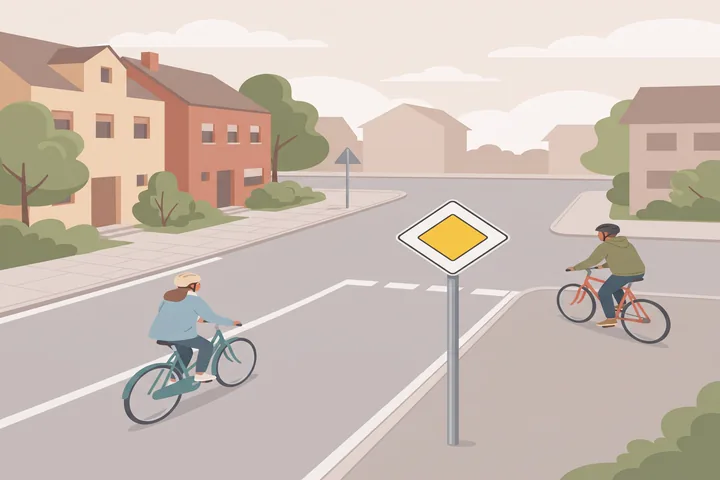
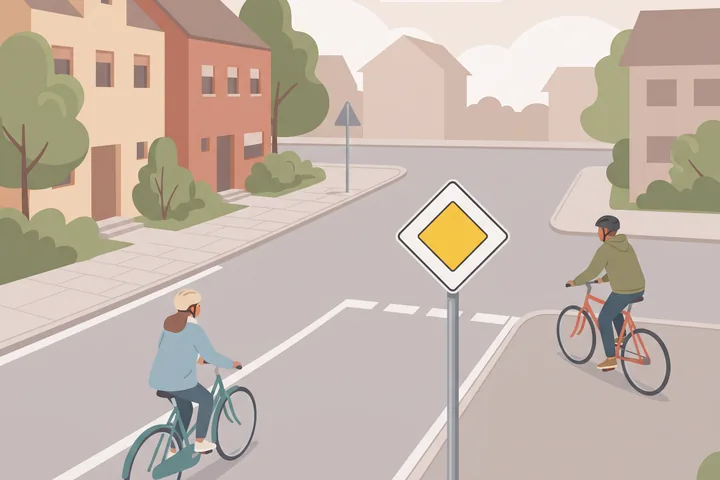
fix(verkehr): Zuschnitt-Verzerrung, Formular-Bug, Code-Dopplung, Inhaltspräzision
Behebt fünf Befunde aus der Gesamt-Review: Bilder wurden beim Verkleinern
gestreckt statt zugeschnitten, ein <form> ohne Absende-Knopf lud bei Enter
die Seite neu, die CRLF-Normalisierung war unnötig dupliziert statt die
bereits exportierte Funktion aus parser.js zu nutzen, zwei Regelsätze waren
sprachlich absoluter als die tatsächliche Rechtslage, und nichts prüfte die
ganze Kette parse->validate->render in einem Zug.

diff --git a/scripts/verkehr-parser.js b/scripts/verkehr-parser.js
@@ -4,13 +4,16 @@
 // gibt es nur eine Art von Dokument (Verkehrsmodul), und Module sind
 // unabhängig voneinander – keine Kette, keine Querverweise.
 //
-// Wiederverwendet wird eine reine Textfunktion aus scripts/parser.js:
-// parseAbschnitte (zerlegt den Rumpf in "## "-Abschnitte). Das ist generisch
-// und kettenunabhängig. Frontmatter-Parsing wird dagegen lokal kopiert
-// (siehe parseFrontmatter unten), damit scripts/parser.js als Teil des
-// fertigen, getesteten Sprachkurses nicht verändert werden muss.
+// Wiederverwendet werden zwei reine Textfunktionen aus scripts/parser.js:
+// parseAbschnitte (zerlegt den Rumpf in "## "-Abschnitte) und
+// normalisiereZeilenenden (CRLF/BOM-Behandlung). Beide sind bereits
+// exportiert, generisch und kettenunabhängig. Nur die Frontmatter-Parsing-
+// *Struktur* selbst (die "---"/Schlüssel-Wert-Auswertung, die parser.js
+// nicht eigenständig exportiert) ist lokal kopiert (siehe parseFrontmatter
+// unten), damit scripts/parser.js als Teil des fertigen, getesteten
+// Sprachkurses nicht verändert werden muss.
 const fs = require('node:fs');
-const { parseAbschnitte } = require('./parser.js');
+const { parseAbschnitte, normalisiereZeilenenden } = require('./parser.js');
 
 const AUFGABE_MUSTER = /^Aufgabe\s*[:·\-–]?\s*(.*)$/;
 
@@ -21,12 +24,12 @@ const AUFGABE_MUSTER = /^Aufgabe\s*[:·\-–]?\s*(.*)$/;
  * bewusst nicht von dort importiert: scripts/parser.js ist Teil des
  * fertigen, getesteten Sprachkurses und wird für dieses Projekt nicht
  * verändert, auch nicht um einen zusätzlichen Export zu ergänzen. Die
- * CRLF-Normalisierung ist Teil dieser Kopie, aus demselben Grund wie dort:
- * Git stellt unter Windows beim Auschecken auf CRLF um, sonst findet schon
- * die Frontmatter-Suche nichts mehr.
+ * CRLF-Normalisierung selbst übernimmt aber die bereits exportierte
+ * normalisiereZeilenenden() aus parser.js – nur die "---"/Schlüssel-Wert-
+ * Struktur rundherum ist lokal kopiert.
  */
 function parseFrontmatter(rohtext) {
-  const raw = rohtext.replace(/^/, '').replace(/\r\n?/g, '\n');
+  const raw = normalisiereZeilenenden(rohtext);
   const match = raw.match(/^---\n([\s\S]*?)\n---\n([\s\S]*)$/);
   if (!match) throw new Error('Keine Frontmatter gefunden');
   const [, frontmatterRaw, body] = match;

diff --git a/scripts/verkehr-integration.test.js b/scripts/verkehr-integration.test.js
@@ -1,0 +1,33 @@
+// scripts/verkehr-integration.test.js
+//
+// Ende-zu-Ende-Test über die ganze Kette: parsen -> validieren -> rendern.
+// Die einzelnen Bausteine haben eigene Unit-Tests, aber keiner von ihnen
+// prüft, ob ihre Schnittstellen tatsächlich zueinander passen (z.B. ob ein
+// Feldname im Parser mit dem Feldnamen im Renderer übereinstimmt). Ein
+// Tippfehler in einem Feldnamen würde sonst erst im gebauten HTML als
+// "undefined" auffallen, nicht in den Tests.
+const test = require('node:test');
+const assert = require('node:assert');
+const path = require('node:path');
+const { parseVerkehrsmodul } = require('./verkehr-parser.js');
+const { validateVerkehrsmodul } = require('./verkehr-pruefstand.js');
+const { renderModulHtml } = require('./verkehr-renderer.js');
+
+const fixturePfad = path.join(__dirname, 'fixtures', 'test-verkehrsmodul.md');
+
+test('parse -> validate -> render: die Testdatei ergibt ein gültiges, vollständiges HTML', () => {
+  const modul = parseVerkehrsmodul(fixturePfad);
+  const result = validateVerkehrsmodul(modul);
+  assert.strictEqual(result.valid, true, result.errors.join(', '));
+
+  const html = renderModulHtml(modul);
+
+  // Kein Feld ist beim Übergang von einer Stufe zur nächsten verlorengegangen.
+  assert.doesNotMatch(html, /undefined/);
+  assert.match(html, /Testmodul/);
+  assert.match(html, /Das ist die deutsche Einleitung\./);
+  assert.match(html, /Was ist richtig\?/);
+  assert.match(html, /Richtige Antwort/);
+  assert.match(html, /Weil das die Regel ist\./);
+  assert.match(html, /Zweite Aufgabe/);
+});

diff --git a/scripts/verkehr-uebung.js b/scripts/verkehr-uebung.js
@@ -44,6 +44,10 @@ function werteAufgabeAus(formular) {
 function registriereUebungen() {
   document.querySelectorAll('.optionen').forEach((formular) => {
     formular.addEventListener('change', () => werteAufgabeAus(formular));
+    // Verhindert, dass die Enter-Taste auf einem Options-Feld das Formular
+    // absendet und die Seite neu lädt – ohne Absende-Knopf würde das sonst
+    // jede gewählte Antwort und jede aufgeklappte Erklärung löschen.
+    formular.addEventListener('submit', (ereignis) => ereignis.preventDefault());
   });
 }
 

diff --git a/scripts/verkehr-bilder-aufbereiten.js b/scripts/verkehr-bilder-aufbereiten.js
@@ -48,7 +48,7 @@ function main() {
     const ziel = path.join(ZIEL, zielName);
     ffmpeg([
       '-i', quelle,
-      '-vf', `scale=${BREITE}:${HOEHE}:flags=lanczos`,
+      '-vf', `scale=${BREITE}:${HOEHE}:force_original_aspect_ratio=increase:flags=lanczos,crop=${BREITE}:${HOEHE}`,
       '-c:v', 'libwebp', '-lossless', '0', '-q:v', '82', '-compression_level', '6',
       '-frames:v', '1',
       ziel,

diff --git a/verkehr/module/01-vorfahrt.md b/verkehr/module/01-vorfahrt.md
@@ -15,21 +15,21 @@ In this module you learn who gets to go first in typical traffic situations. The
 
 ## Regel Deutsch
 
-Grundregel: "Rechts vor links". An Kreuzungen ohne Vorfahrtsschilder und ohne Ampel hat immer das Fahrzeug Vorfahrt, das von rechts kommt. Das gilt auch für Fahrräder.
+Grundregel: "Rechts vor links". An Kreuzungen ohne Vorfahrtsschilder und ohne Ampel hat in der Regel das Fahrzeug Vorfahrt, das von rechts kommt. Das gilt auch für Fahrräder.
 
 Zwei wichtige Ausnahmen:
 - Ein gelbes Rautenschild (Vorfahrtsstraße) bedeutet: Du hast Vorfahrt vor allen, die aus einer Seitenstraße kommen, egal ob von rechts oder links.
-- Ein rotes Schild mit weißer Spitze nach unten ("Vorfahrt gewähren") oder ein Stoppschild bedeutet: Du musst andere zuerst fahren lassen.
+- Ein weißes Dreieckschild mit rotem Rand und der Spitze nach unten ("Vorfahrt gewähren") oder ein Stoppschild bedeutet: Du musst andere zuerst fahren lassen.
 
 Im Kreisverkehr hat grundsätzlich der Verkehr, der sich schon im Kreis befindet, Vorfahrt vor dem, der einfahren möchte.
 
 ## Regel Englisch
 
-Basic rule: "right before left". At intersections without priority signs and without traffic lights, the vehicle coming from the right always has the right of way. This applies to bicycles too.
+Basic rule: "right before left". At intersections without priority signs and without traffic lights, the vehicle coming from the right generally has the right of way. This applies to bicycles too.
 
 Two important exceptions:
 - A yellow diamond sign (priority road) means: you have the right of way over anyone coming from a side street, regardless of whether they are on your right or left.
-- A red sign with a white triangle pointing down ("yield") or a stop sign means: you must let others go first.
+- A white triangular sign with a red border, point facing down ("yield"), or a stop sign means: you must let others go first.
 
 In a roundabout, traffic that is already inside the circle generally has the right of way over traffic that wants to enter.
 
